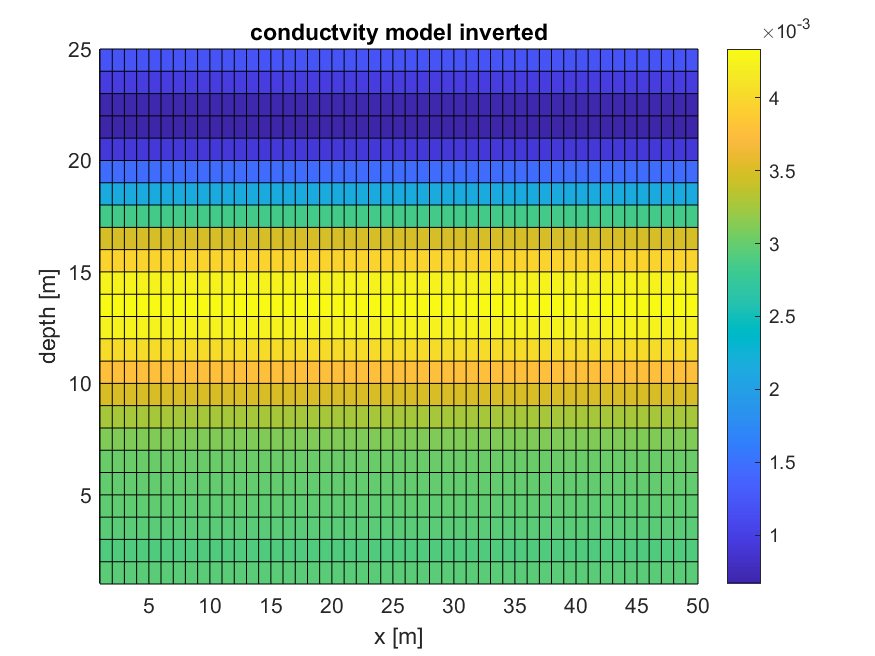
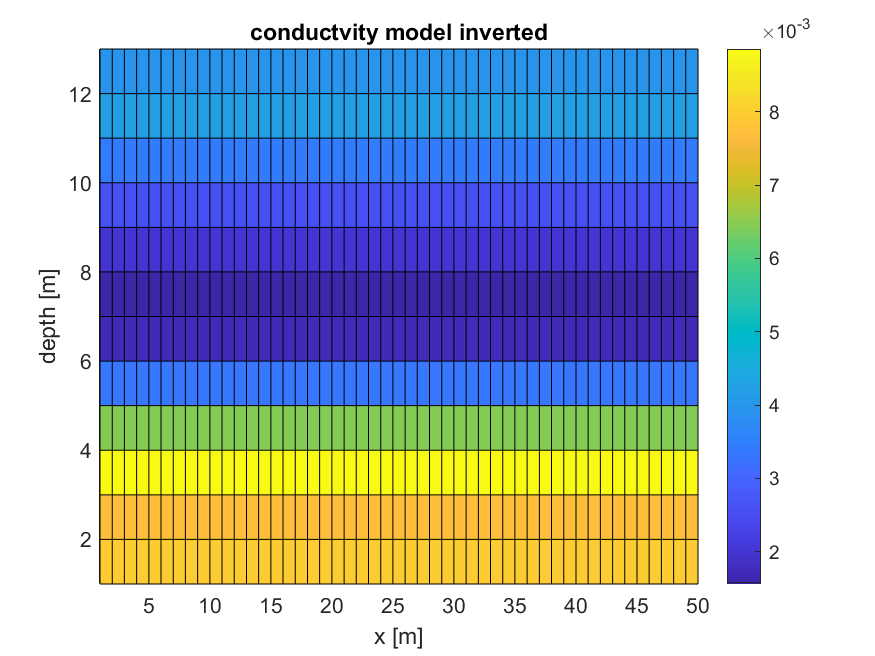
Delete homemade regression

diff --git a/matlab_models/EM_forward_model_anhorn.m b/matlab_models/EM_forward_model_anhorn.m
@@ -6,9 +6,9 @@ clear all, close all, clc,
 tic
 
 % initial conductivity
-sig1 = 1e-3;
-sig2 = 4e-3;
-sig3 = 3e-3;
+sig1 = 4e-3;
+sig2 = 2e-3;
+sig3 = 8e-3;
 sig = [sig1; sig2; sig3];
 
 % frequency and depth
@@ -62,9 +62,15 @@ hold off
 % giving sigma_a
 % ///////////////////////////////////////
 
+% forwardEM1D(ztop, sigma, orient, sep)
+% ztop is a column vector containing the z-coordinate of the *top* of each layer [m]
+% sigma is a column vector containing the true electrical conductivity of each layer [S/m]
+% orient is a scalar value specifying the dipole orientation (0 = vertical; 1 = horizontal)
+% sep is a scalar value specifying the coil separation [m]
+% if two direction desired : sigma_a = [sigma_a_v sigma_a_h] ?
+
 coil = 1;
 ori = 0;
-
 sigma_a = forwardEM1D(depth_layer, sig, ori, coil);
 disp(sigma_a)
 
@@ -72,68 +78,7 @@ disp(sigma_a)
 % Inversion using sigma_a
 % /////////////////////////////////////////////
 
-% to finish
-
-% //////////////////////////////////////////////
-% Polynomial regression
-% //////////////////////////////////////////////
-% Invented datas, without taking sigma_a in count (in progress)
-% setting up x and y
-x = resEM';
-y = centroid;
-for i = 1:length(x)
-    x(i) = x(i) + randn(1)*5e-5 ;
-end % noise
-
-tic
-% setting up inversion functions
-k = 0:1:8;
-G = zeros(length(y), length(k));
-G(:, :) = y(:).^repmat(k, length(y), 1);
-beta = inv(G'*G)*(G'*x);
-y1=zeros(length(y), 1);
-
-% polynomial regression
-for i = 1:length(k)
-   y1(:) = y1(:) + beta(i)*y(:).^k(i);
-end 
-toc
-
-% plot
-inversion = figure(3);
-hold on
-plot(x, y)
-plot(y1, y, 'r')
-% xlim([-0.001 0.015])
-% ylim([-5 55])
-legend('m0', 'homemade regression', 'location', 'northwest')
-xlabel('conductivity \sigma')
-ylabel('depth [m]')
-title('Homemade inversion')
-set(gca, 'YDir','reverse')
-hold off
-saveas(inversion, 'inversion_fig.png')
-
-% /////////////////////////////////
-% 2D array combining 1D array
-% /////////////////////////////////
-% represent regression in 2D
-
-measurement_spacing = thkness; % [m]
-terrain_size = distance; % [m]
-dist = ones(1, terrain_size)*measurement_spacing; % 
-
-model2d = dist.*y1 ;
-
-inversion_2d = figure(5);
-pcolor(model2d)
-xlabel('x [m]')
-ylabel('depth [m]')
-title('conductvity model inverted')
-colorbar
-saveas(inversion_2d, 'inversion_2d.png')
-
-% /////////////////////////////////
+% ??
 
 toc
 
@@ -144,13 +89,13 @@ toc
 % -> weight W could be better 
 
 function C = forwardEM1D(ztop, sigma, orient, sep)
-    if orient == 1 % 1 = horizontal
+    if orient == 1     % 1 = horizontal
         R = ((4.*((ztop./sep).^2)+1).^(1/2))-2.*(ztop./sep);
-    else           % 0 = vertical
+    elseif orient == 0 % 0 = vertical
         R = ((4.*((ztop./sep).^2)+1).^(1/2)).\1;
     end
     C = sigma(1)*(1-R(1)) + sigma(end)*R(end);
         for j = 2:length(sigma)-1
            C = C + sigma(j).*(R(j-1) - R(j));
-        end 
+        end
 end
